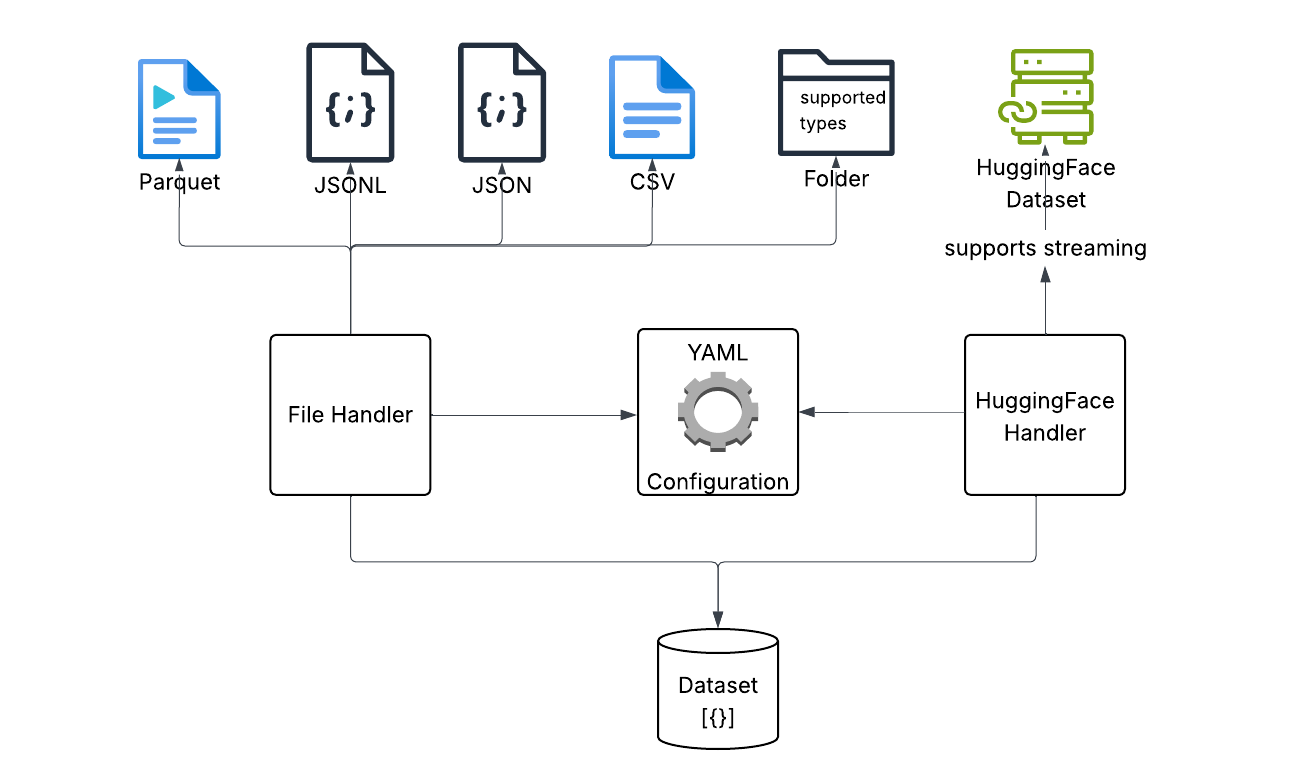
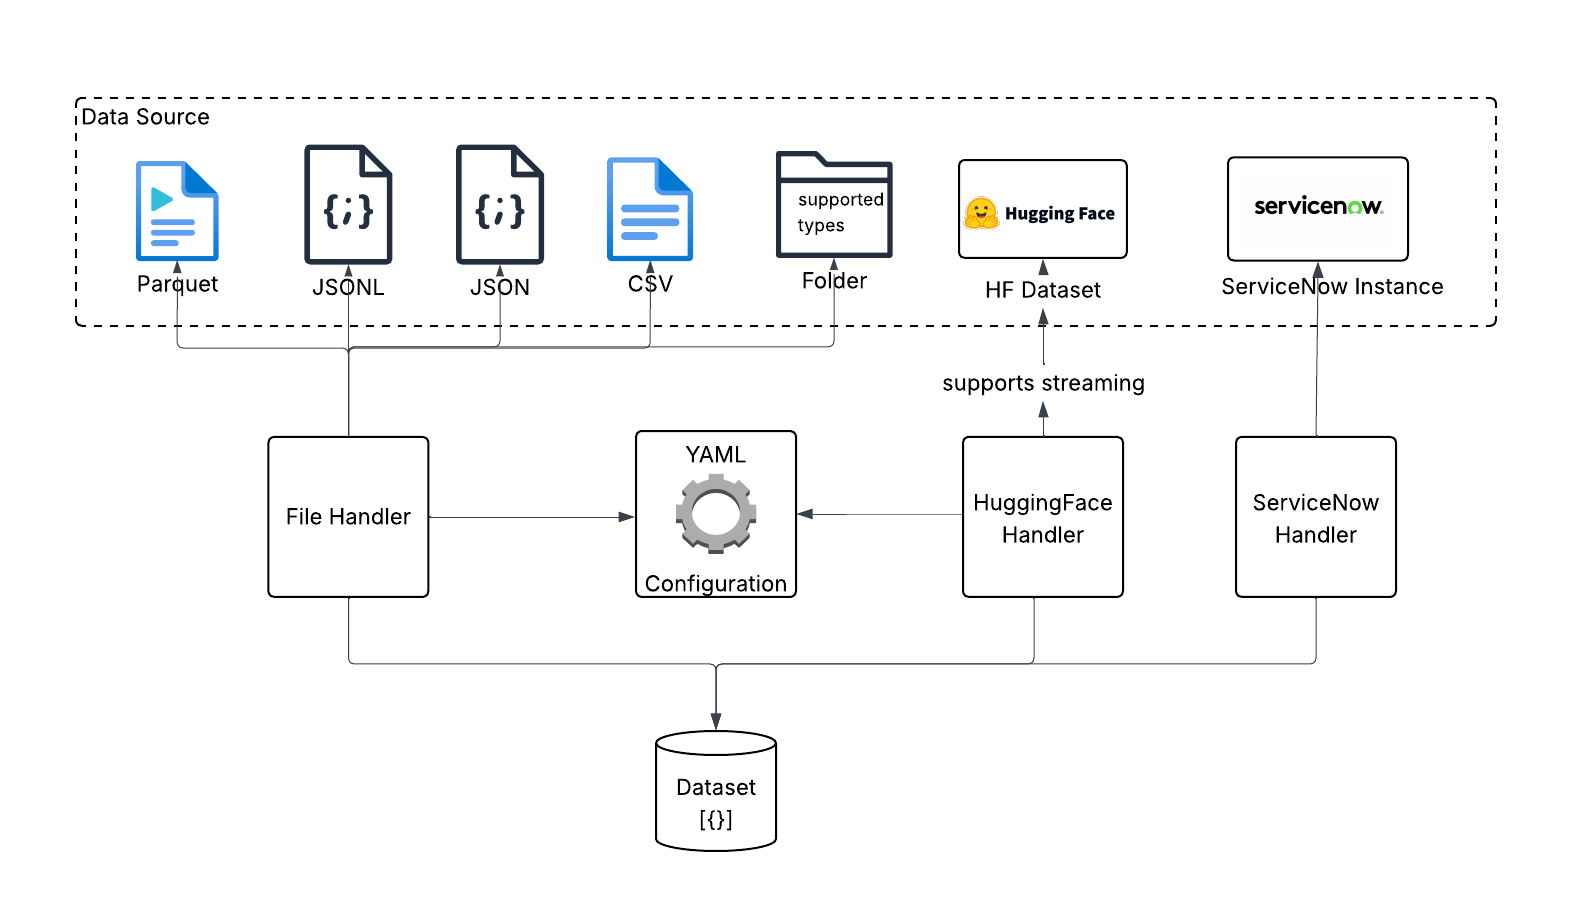
[Enhancement/Document] ServiceNow instance support document (#68)
* ServiceNow instance support document

* updated image

* updated image

* updated image

---------

diff --git a/README.md b/README.md
@@ -37,7 +37,7 @@ SyGra Framework is created to generate synthetic data. As it is a complex proces
 - Define a task, which involves graph node configuration, flow between nodes and conditions between the node
 - Define the output location to dump the generated data
 
-Seed data can be pulled from either Huggingface or file system. Once the seed data is loaded, SyGra platform allows datagen users to write any data processing using the data transformation module. When the data is ready, users can define the data flow with various types of nodes. A node can also be a subgraph defined in another yaml file.
+Seed data can be pulled from various data source, few examples are Huggingface, File system, ServiceNow Instance. Once the seed data is loaded, SyGra platform allows datagen users to write any data processing using the data transformation module. When the data is ready, users can define the data flow with various types of nodes. A node can also be a subgraph defined in another yaml file.
 
 Each node can be defined with preprocessing, post processing, and LLM prompt with model parameters. Prompts can use seed data as python template keys.  
 Edges define the flow between nodes, which can be conditional or non-conditional, with support for parallel and one-to-many flows.
@@ -114,8 +114,10 @@ workflow.run(num_records=1)
 The SyGra architecture is composed of multiple components. The following diagrams illustrate the four primary components and their associated modules.
 
 ### Data Handler
-Data handler is used for reading and writing the data. Currently, it supports file handler with various file types and huggingface handler.
-When reading data from huggingface, it can read the whole dataset and process, or it can stream chunk of data.
+Data handler is used for reading and writing the data. Currently, it supports following handlers: 
+ - File handler with various file types like JSON, JSONL, CSV, Parquet, Folder with supported type.
+ - Huggingface handler: When reading data from huggingface, it can read the whole dataset and process, or it can stream chunk of data.
+ - ServiceNow Handler to connect a ServiceNow instance : Currently it reads or writes into a single table per dataset configuration.
 
 <kbd> ![DataHandler](https://raw.githubusercontent.com/ServiceNow/SyGra/refs/heads/main/docs/resources/images/component_data_handler.png) </kbd>
 
